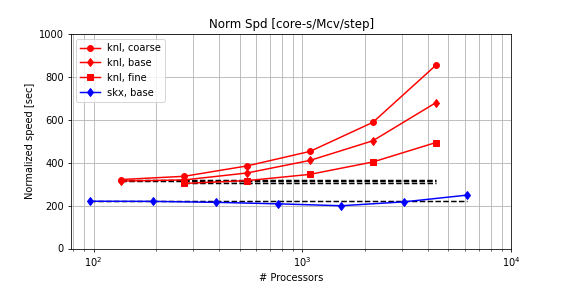
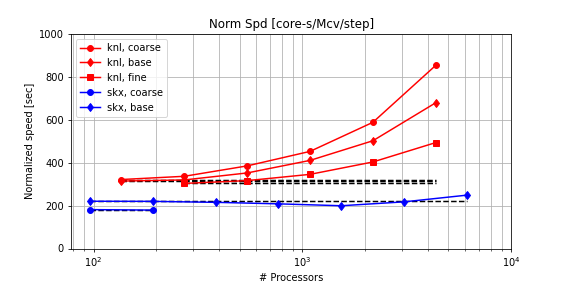
update preliminary results: coarse, skx

Changed region(s): [[0.1197, 0.1408, 0.2993, 0.4225], [0.1496, 0.7324, 0.2993, 0.7606]]

diff --git a/post_summary.py b/post_summary.py
@@ -9,17 +9,20 @@ Created on Mon Mar  1 11:33:17 2021
 import numpy as np
 import matplotlib.pyplot as plt
 
-cases = [('coarse','knl'),('base','knl'), ('fine','knl'), ('base','skx')]
+cases = [('coarse','knl'),('base','knl'), ('fine','knl'), \
+         ('coarse','skx'),('base','skx')]
 
 # {'base':38475335, 'fine':85041048}
 numCPUs ={'knl':68, 'skx':48}
 numCells={('coarse','knl'):21.4e6, ('base','knl'):38.5e6, ('fine','knl'):85.0e6, \
-           ('base','skx'):38.5e6}
+          ('coarse','skx'):21.4e6, ('base','skx'):38.5e6}
 
-numNodes={('coarse','knl'):[2, 4, 8, 16, 32, 64], \
-          ('base','knl'): [2, 4, 8, 16, 32, 64],  \
-          ('fine','knl'): [4, 8, 16, 32, 64],     \
-          ('base','skx'): [2, 4, 8, 16, 32, 64, 128]}
+numNodes={('coarse','knl'): [2, 4, 8, 16, 32, 64],  
+          ('base',  'knl'): [2, 4, 8, 16, 32, 64],  
+          ('fine',  'knl'): [4, 8, 16, 32, 64],     
+          ('coarse','skx'): [2, 4],            
+          ('base',  'skx'): [2, 4, 8, 16, 32, 64, 128]}
+    
 numProcs=dict()
 
 for test_case in cases:
@@ -112,8 +115,6 @@ plt.xticks([10**2, 10**3, 10**4])
 plt.ylim(0, 1001)
 plt.grid(True, which="both", ls="-")
 plt.savefig('results/summary_normalized_speed.png')
-
-
 
 
 
